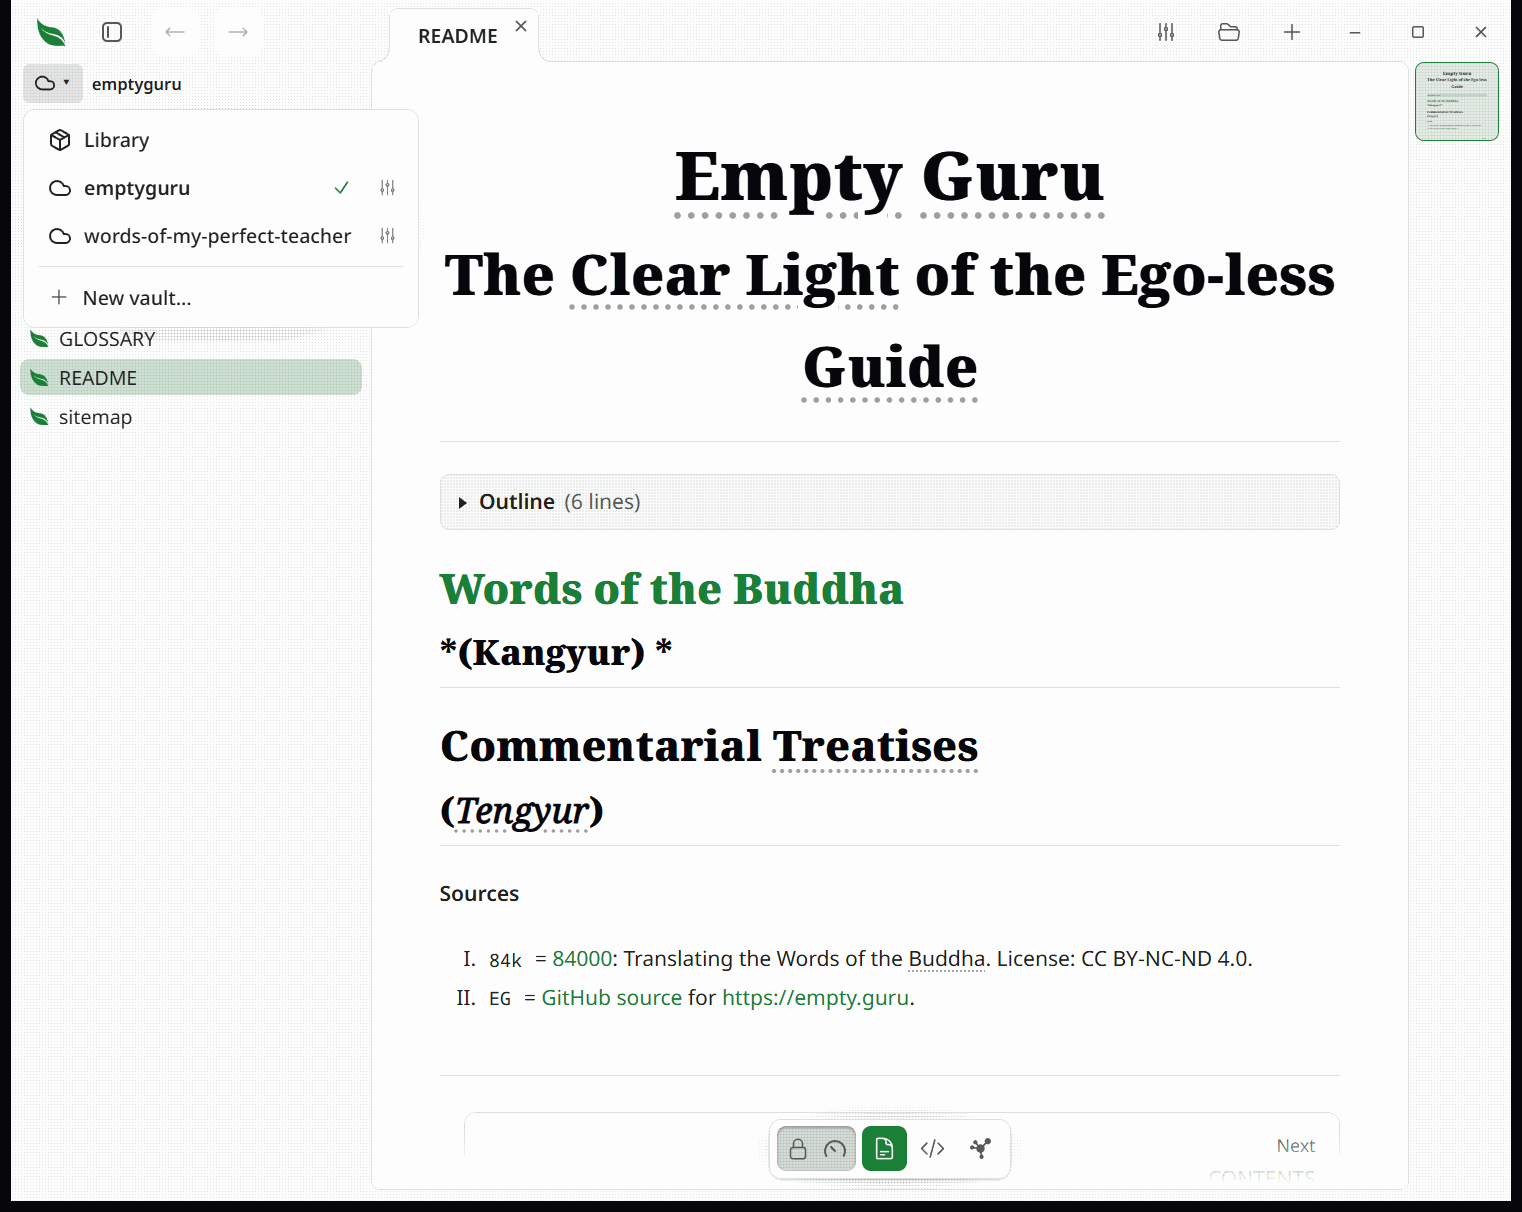
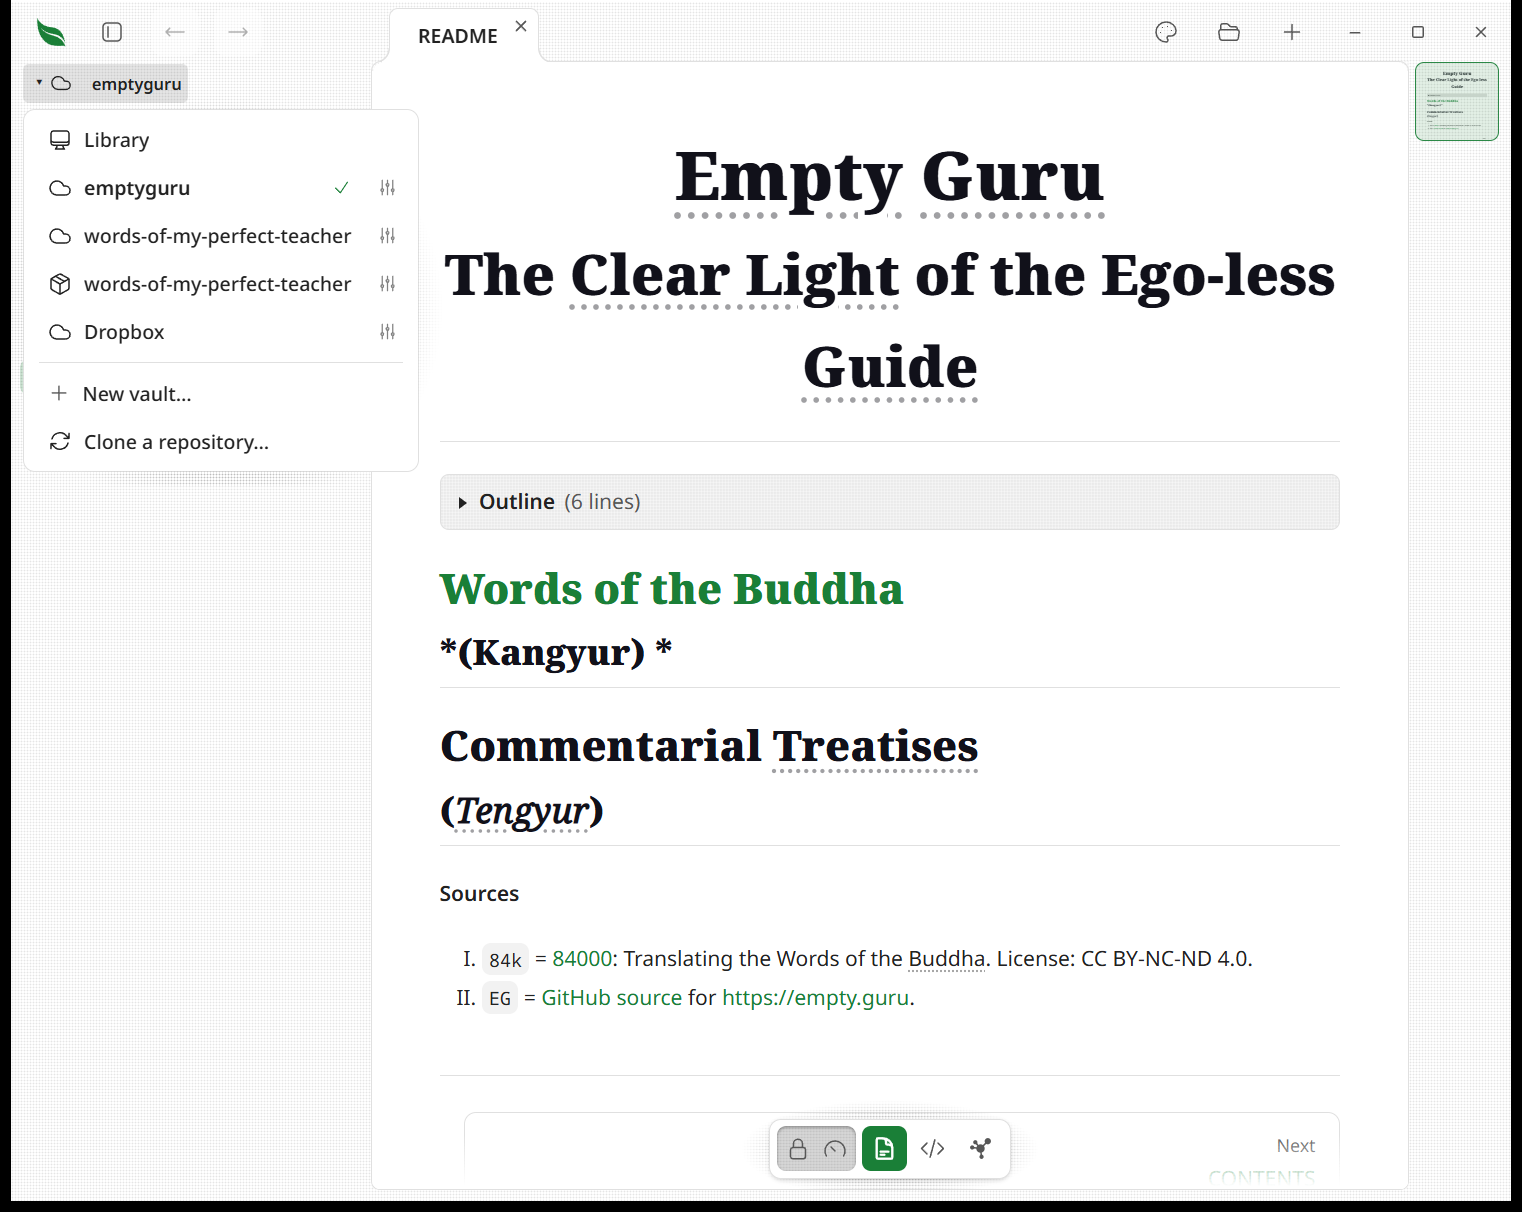
The open vault list lights the switcher and the vault's name as one shape

Changed region(s): [[0.0, 0.2137, 0.247, 0.3969], [0.0309, 0.0305, 0.1235, 0.1221], [0.7411, 0.0, 0.772, 0.0305]]

diff --git a/gallery.html b/gallery.html
@@ -3723,6 +3723,31 @@ body.library-resizing {
   background: color-mix(in srgb, var(--lt-muted-foreground) 16%, transparent);
   color: var(--lt-foreground);
 }
+/* Open, the button and the vault's name beside it are one pill: what the list
+   changes is the whole pane, not the 20px of icon you pressed. The button grows
+   into the 2px gap and pulls the trail back by the same amount, so the name and
+   every folder after it stay exactly where they were. The state is an attribute on
+   the button, so a disk change rebuilding the trail underneath cannot lose it. */
+.library-vault-switch[aria-expanded="true"] {
+  padding-right: calc(var(--lt-space-7) + var(--lt-space-2));
+  margin-right: calc(-1 * var(--lt-space-2));
+  border-top-right-radius: 0;
+  border-bottom-right-radius: 0;
+}
+.library-vault-switch[aria-expanded="true"] + .library-crumb-trail .library-crumb:first-child {
+  height: 26px;
+  border-top-left-radius: 0;
+  border-bottom-left-radius: 0;
+  background: color-mix(in srgb, var(--lt-muted-foreground) 16%, transparent);
+  color: var(--lt-foreground);
+}
+/* Standing at the vault's own root, the name is a span rather than a button, so
+   nothing centers its text in a box this tall. It is also the only crumb there, so
+   there is no ellipsis to lose. */
+.library-vault-switch[aria-expanded="true"] + .library-crumb-trail .library-crumb.is-current:first-child {
+  display: flex;
+  align-items: center;
+}
 .library-crumb-caret {
   flex: none;
   font-size: var(--lt-text-9);
@@ -8534,7 +8559,7 @@ body.is-block-dragging .document-body [data-src-start] {
 </section>
 <section class="part">
 <header><h3>Breadcrumbs</h3><code class="built">.library-crumb</code><span class="built">library.js</span></header>
-<div class="stage"><div class="library-crumb-trail"><button type="button" class="library-crumb">Vault</button><button type="button" class="library-crumb">Folder</button></div></div>
+<div class="stage"><div class="library-crumbs" style="position:static"><button type="button" class="library-vault-switch" aria-haspopup="menu" aria-expanded="true"><span class="library-crumb-caret" aria-hidden="true">▾</span><span class="lt-icon lt-icon-package-open"></span></button><nav class="library-crumb-trail"><button type="button" class="library-crumb">Vault</button><span class="library-crumb-sep" aria-hidden="true">›</span><button type="button" class="library-crumb">Folder</button></nav></div></div>
 </section>
 <section class="part">
 <header><h3>Minimap rail</h3><code class="built">.document-minimap</code><span class="built">minimap.js</span></header>

diff --git a/src/assets/reading.css b/src/assets/reading.css
@@ -1374,6 +1374,31 @@ body.library-resizing {
   background: color-mix(in srgb, var(--lt-muted-foreground) 16%, transparent);
   color: var(--lt-foreground);
 }
+/* Open, the button and the vault's name beside it are one pill: what the list
+   changes is the whole pane, not the 20px of icon you pressed. The button grows
+   into the 2px gap and pulls the trail back by the same amount, so the name and
+   every folder after it stay exactly where they were. The state is an attribute on
+   the button, so a disk change rebuilding the trail underneath cannot lose it. */
+.library-vault-switch[aria-expanded="true"] {
+  padding-right: calc(var(--lt-space-7) + var(--lt-space-2));
+  margin-right: calc(-1 * var(--lt-space-2));
+  border-top-right-radius: 0;
+  border-bottom-right-radius: 0;
+}
+.library-vault-switch[aria-expanded="true"] + .library-crumb-trail .library-crumb:first-child {
+  height: 26px;
+  border-top-left-radius: 0;
+  border-bottom-left-radius: 0;
+  background: color-mix(in srgb, var(--lt-muted-foreground) 16%, transparent);
+  color: var(--lt-foreground);
+}
+/* Standing at the vault's own root, the name is a span rather than a button, so
+   nothing centers its text in a box this tall. It is also the only crumb there, so
+   there is no ellipsis to lose. */
+.library-vault-switch[aria-expanded="true"] + .library-crumb-trail .library-crumb.is-current:first-child {
+  display: flex;
+  align-items: center;
+}
 .library-crumb-caret {
   flex: none;
   font-size: var(--lt-text-9);

diff --git a/src/assets/app-shell.html b/src/assets/app-shell.html
@@ -81,7 +81,7 @@
   <!-- Where you are: the folder path, one crumb per level, with the graph
        toggle on the right. Its own band above the search row, same treatment. -->
   <div class="library-crumbs" id="libraryCrumbs">
-    <button type="button" id="libraryVaultSwitch" class="library-vault-switch" aria-haspopup="menu" aria-expanded="false" title="Vaults" aria-label="Vaults"><span class="lt-icon lt-icon-computer"></span><span class="library-crumb-caret" aria-hidden="true">▾</span></button>
+    <button type="button" id="libraryVaultSwitch" class="library-vault-switch" aria-haspopup="menu" aria-expanded="false" title="Vaults" aria-label="Vaults"><span class="library-crumb-caret" aria-hidden="true">▾</span><span class="lt-icon lt-icon-computer"></span></button>
     <nav class="library-crumb-trail" id="libraryCrumbTrail" aria-label="Folder path"></nav>
     <!-- Present only when this vault has work that has not reached GitHub. A
          button that is always there says nothing; one that appears is the

diff --git a/src/assets/shell/library.js b/src/assets/shell/library.js
@@ -1236,8 +1236,7 @@ window.addEventListener('resize', scheduleCrumbFit);
 // are in, so hovering it says what changing would change.
 function renderLibraryVaultSwitch() {
   if (!libraryVaultSwitch) return;
-  // The button shows the vault you are in, so it wears that vault's mark. The
-  // caret is ours and stays; only the glyph before it is replaced.
+  // The button shows the vault you are in, so it wears that vault's mark. The caret leads and stays; the glyph after it is the one replaced, found by class rather than by position.
   setVaultGlyph(libraryVaultSwitch, vaultGlyph(true, activeVaultId));
   const label = `Switch vault (in ${libraryRootLabel()})`;
   libraryVaultSwitch.title = label;

diff --git a/src/tests/app_shell_library.rs b/src/tests/app_shell_library.rs
@@ -946,7 +946,10 @@ fn the_vault_switcher_is_its_own_button_beside_the_trail() {
     assert!(html.contains("icon: rootIcon(vault.id === activeVaultId, vault.id),"));
     // The pane still lists directories as directories.
     assert!(html.contains("const FOLDER_ICON_SVG = `"));
-    assert!(html.contains(r#"<span class="library-crumb-caret" aria-hidden="true">"#));
+    // The arrow leads, so the open highlight runs from it through the glyph and on into the vault's name beside the button.
+    assert!(html.contains(
+        r#"<span class="library-crumb-caret" aria-hidden="true">▾</span><span class="lt-icon"#
+    ));
     // Its label names the root you are in, so hovering says what would change.
     assert!(html.contains("function renderLibraryVaultSwitch()"));
     assert!(html.contains("const label = `Switch vault (in ${libraryRootLabel()})`;"));
@@ -1145,6 +1148,42 @@ fn a_mouse_press_never_leaves_a_focus_ring_behind() {
 }
 
 #[test]
+fn the_open_switcher_lights_the_vault_name_beside_it() {
+    let html = app_shell_page();
+    let css = reading_mode_css();
+
+    // Opening the list changes what the whole pane is about, so the highlight reaches across the name rather than stopping at the icon. One selector: open is an attribute on the button, and the name is the first crumb of the trail next to it.
+    assert!(css.contains(
+        ".library-vault-switch[aria-expanded=\"true\"] + .library-crumb-trail .library-crumb:first-child {"
+    ));
+    // Standing at the vault's own root the name is a span, which centers nothing on its own.
+    assert!(css.contains(
+        ".library-vault-switch[aria-expanded=\"true\"] + .library-crumb-trail .library-crumb.is-current:first-child {"
+    ));
+    // The two make one pill: the facing corners square and the button grows into the 2px gap, pulled back by the same amount so no folder after the name moves.
+    assert!(css.contains("padding-right: calc(var(--lt-space-7) + var(--lt-space-2));"));
+    assert!(css.contains("margin-right: calc(-1 * var(--lt-space-2));"));
+
+    // A sibling selector, so it is silently dead the moment anything is put between the button and the trail. Only whitespace may sit there.
+    let switcher = html
+        .find(r#"<button type="button" id="libraryVaultSwitch""#)
+        .expect("the switcher is in the shell");
+    let closed =
+        switcher + html[switcher..].find("</button>").expect("it closes") + "</button>".len();
+    let trail = html
+        .find(r#"<nav class="library-crumb-trail""#)
+        .expect("the trail is in the shell");
+    assert!(
+        closed < trail && html[closed..trail].trim().is_empty(),
+        "nothing may sit between the switcher and the trail, found {:?}",
+        &html[closed..trail]
+    );
+
+    // The name is still a place: clicking it enters that folder, and nothing about it opens the menu.
+    assert!(html.contains("setLibraryFolder(crumb.dataset.crumbPath)"));
+}
+
+#[test]
 fn the_whole_library_wears_the_machine_it_reads() {
     let html = app_shell_page();
 
@@ -1153,7 +1192,7 @@ fn the_whole_library_wears_the_machine_it_reads() {
     assert!(html.contains("if (!id) return COMPUTER_ICON_SVG;"));
     // And it is what the button carries before anything has been switched to.
     assert!(html.contains(
-        r#"id="libraryVaultSwitch" class="library-vault-switch" aria-haspopup="menu" aria-expanded="false" title="Vaults" aria-label="Vaults"><span class="lt-icon lt-icon-computer"></span>"#
+        r#"id="libraryVaultSwitch" class="library-vault-switch" aria-haspopup="menu" aria-expanded="false" title="Vaults" aria-label="Vaults"><span class="library-crumb-caret" aria-hidden="true">▾</span><span class="lt-icon lt-icon-computer"></span>"#
     ));
 }
 

diff --git a/design/components.md b/design/components.md
@@ -28,7 +28,7 @@
 | Breadcrumb menu | crumb-menu | `library.js` | `<div class="context-menu crumb-menu" style="position:static"><button type="button" class="context-menu-item crumb-menu-item">A folder</button></div>` | — |
 | Library pane | library | `library.js` | `<div class="library-pane" style="position:static;width:240px;height:132px"><div class="library-tree"><button type="button" class="library-file is-selected"><span class="lt-icon lt-icon-leaf"></span><span class="library-file-label">A note.md</span></button><button type="button" class="library-nav-folder"><span class="lt-icon lt-icon-folder"></span><span class="library-file-label">A folder</span></button></div></div>` | — |
 | Search results | library-hit | `library-search.js` | `<button type="button" class="library-hit"><span class="library-hit-title">A note<span class="library-hit-alias">Its other name</span></span><span class="library-hit-snippet">the matched words</span></button>` | — |
-| Breadcrumbs | library-crumb | `library.js` | `<div class="library-crumb-trail"><button type="button" class="library-crumb">Vault</button><button type="button" class="library-crumb">Folder</button></div>` | — |
+| Breadcrumbs | library-crumb | `library.js` | `<div class="library-crumbs" style="position:static"><button type="button" class="library-vault-switch" aria-haspopup="menu" aria-expanded="true"><span class="library-crumb-caret" aria-hidden="true">▾</span><span class="lt-icon lt-icon-package-open"></span></button><nav class="library-crumb-trail"><button type="button" class="library-crumb">Vault</button><span class="library-crumb-sep" aria-hidden="true">›</span><button type="button" class="library-crumb">Folder</button></nav></div>` | — |
 | Minimap rail | document-minimap | `minimap.js` | `<aside class="document-minimap" style="height:120px"><div class="document-minimap-track"><div class="document-minimap-viewport"></div></div></aside>` | minimap-slider reader-minimap |
 | Outline | document-outline | `decorate.js`, `reading-blocks.js` | `<div class="document-body"><div class="document-outline"><div class="document-outline-title">On this page</div><a class="document-outline-link" href="#">A heading</a></div></div>` | — |
 | Pager | docs-pager | `library.js`, `reading-blocks.js` | `<nav class="docs-pager"><a class="docs-pager-link" href="#">Previous</a><a class="docs-pager-link" href="#">Next</a></nav>` | — |

diff --git a/docs/01-features/03-library.md b/docs/01-features/03-library.md
@@ -24,11 +24,13 @@ The library is the part of Leaftext that helps you find documents, not just read
 
 ## Vaults
 
-![The vault switcher open: the Library entry at the top for the no-vault state, then each named vault with a settings button on its row, and New vault at the foot](../../imgs/vault-switcher.png)
+![The vault switcher open, lit as one shape with the vault's name beside it: the Library entry at the top for the no-vault state, then each vault with a settings button on its row and a cloud on the ones a sync client keeps, then New vault and Clone a repository at the foot](../../imgs/vault-switcher.png)
 
 A **vault** is a folder you have told Leaftext to treat as a library root. It is the unit that search and syncing work over, and it is what makes the [graph](#graph) bigger — but not what makes the graph possible.
 
 The button at the left of the breadcrumb opens the vault switcher. What it wears says what you are in: **this machine** for the whole library, a **box** for a vault whose files only live here, and a **cloud** when saving in that vault also reaches somewhere else — [GitHub](#github-sync), or a [cloud folder](#your-cloud-is-already-a-folder).
+
+While the list is open, the button and the vault's name beside it light as one shape, because what you pick changes the whole pane — the name, the path, the file tree and what search reads — rather than the icon you pressed. The name is still a place: clicking it goes to the vault's top folder.
 
 - **Library** is the no-vault state, marked with the machine rather than a box because it is not a collection — the pane starts at your drive roots and browses anywhere. Search is unavailable, because it has no bounded set of words to read. The graph still works: it maps the open document instead of a vault.
 - **A vault** roots the pane at that folder. Everything below it is browsable, searchable and mappable.
